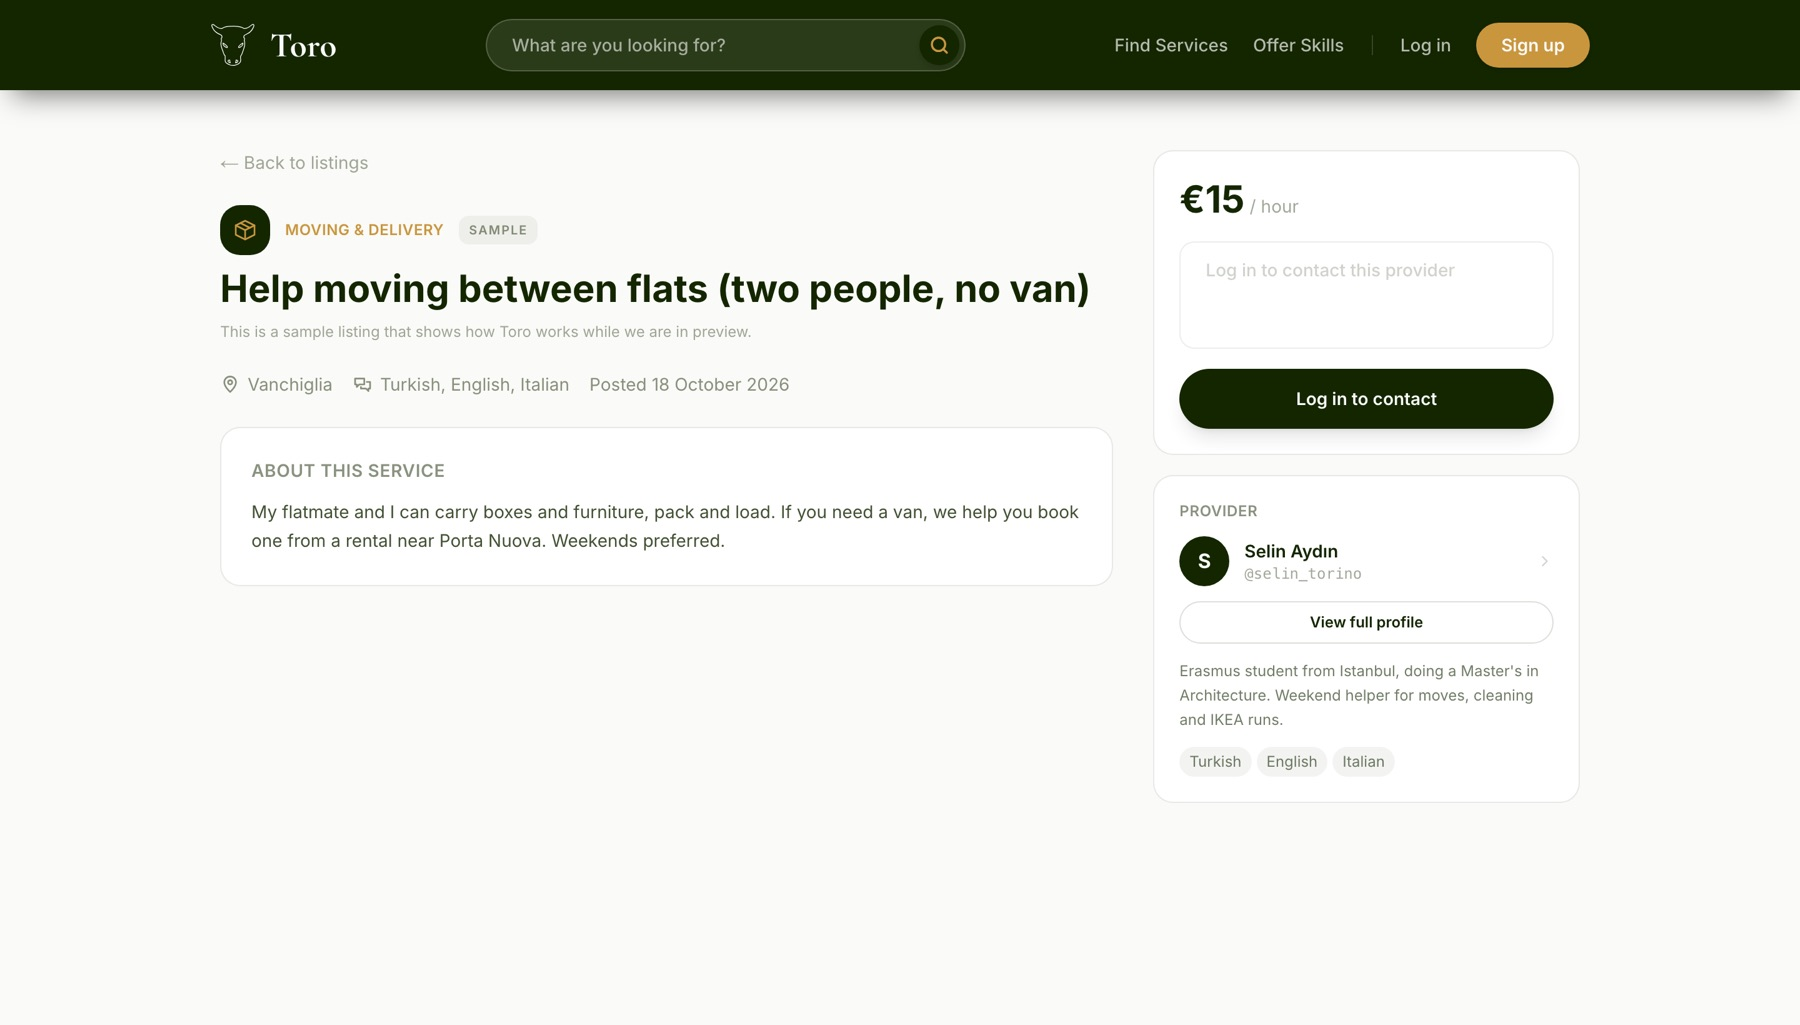
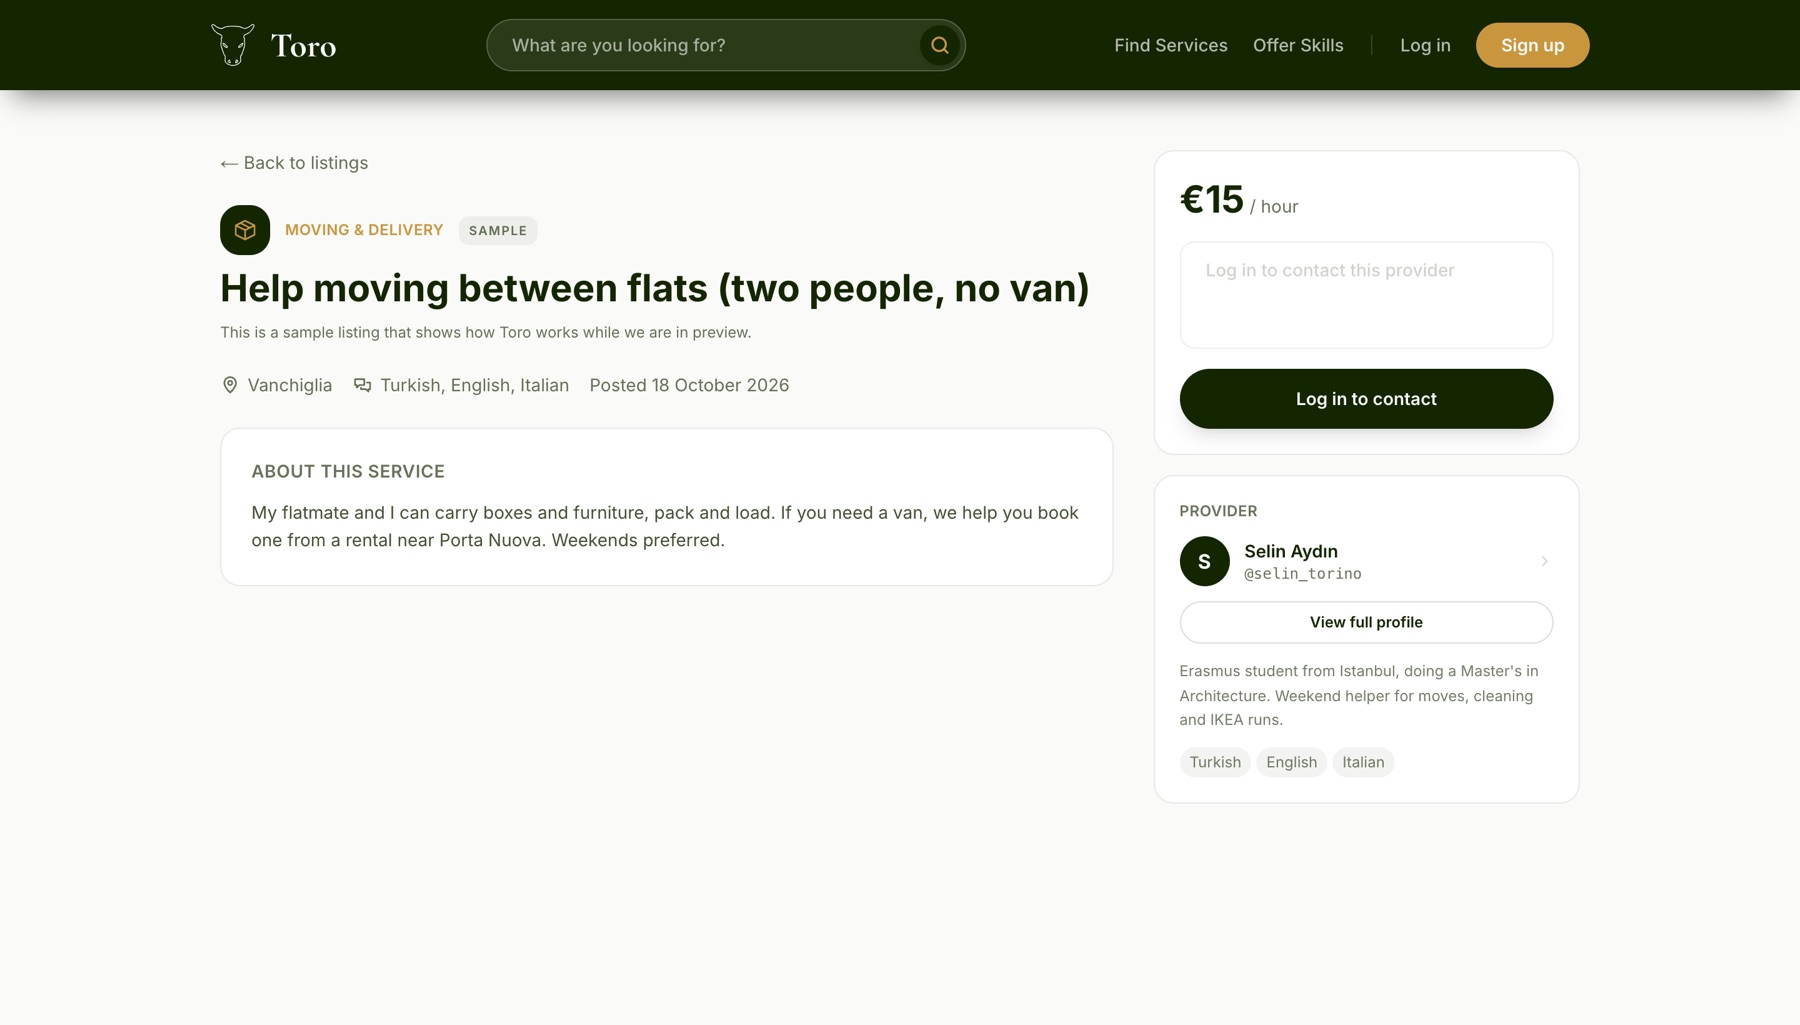
docs: crisp README screenshots, including mobile
Screenshots are now taken after animations finish (the previous ones
caught cards mid fade-in and looked washed out). Adds a home sections
shot and two mobile shots; CLAUDE.md records the contrast rules.

diff --git a/CLAUDE.md b/CLAUDE.md
@@ -168,6 +168,10 @@ updating the CHECK constraint.
   on the listing detail page, with no stock fallback. Horizontal carousels use
   native scroll with `scroll-snap` (see Latest services in HomeClient).
 - Copy: plain punctuation, no em dashes (—) in UI text.
+- Contrast: informational secondary text is at least `text-toro-dark/65`
+  (`text-toro-light/65` on dark), which passes WCAG AA. Lighter values only for
+  decoration. Keyboard focus uses the global gold `:focus-visible` outline.
+- Glass effects (backdrop-blur, white/10 fills) belong to the hero only.
 - Empty states use the `.toro-empty-state` pattern: ToretBull icon, heading,
   short text, CTA.
 - Never define CATEGORIES or PRICE_TYPES locally. Import them from `@/lib/categories`.

diff --git a/README.md b/README.md
@@ -37,9 +37,19 @@ drinking fountains.
   every pull request. One test checks that category values in the code match the
   database CHECK constraint.
 
+## Screenshots
+
+![Categories, latest services and how it works](docs/screenshots/home-sections.jpg)
+
 | Browse | Listing | Sign up |
 |---|---|---|
 | ![Listings](docs/screenshots/listings.jpg) | ![Listing detail](docs/screenshots/detail.jpg) | ![Sign up](docs/screenshots/signup.jpg) |
+
+<p align="center">
+  <img src="docs/screenshots/mobile-home.jpg" alt="Home on mobile" width="260">
+  &nbsp;&nbsp;
+  <img src="docs/screenshots/mobile-listings.jpg" alt="Listings on mobile" width="260">
+</p>
 
 ## Features
 
